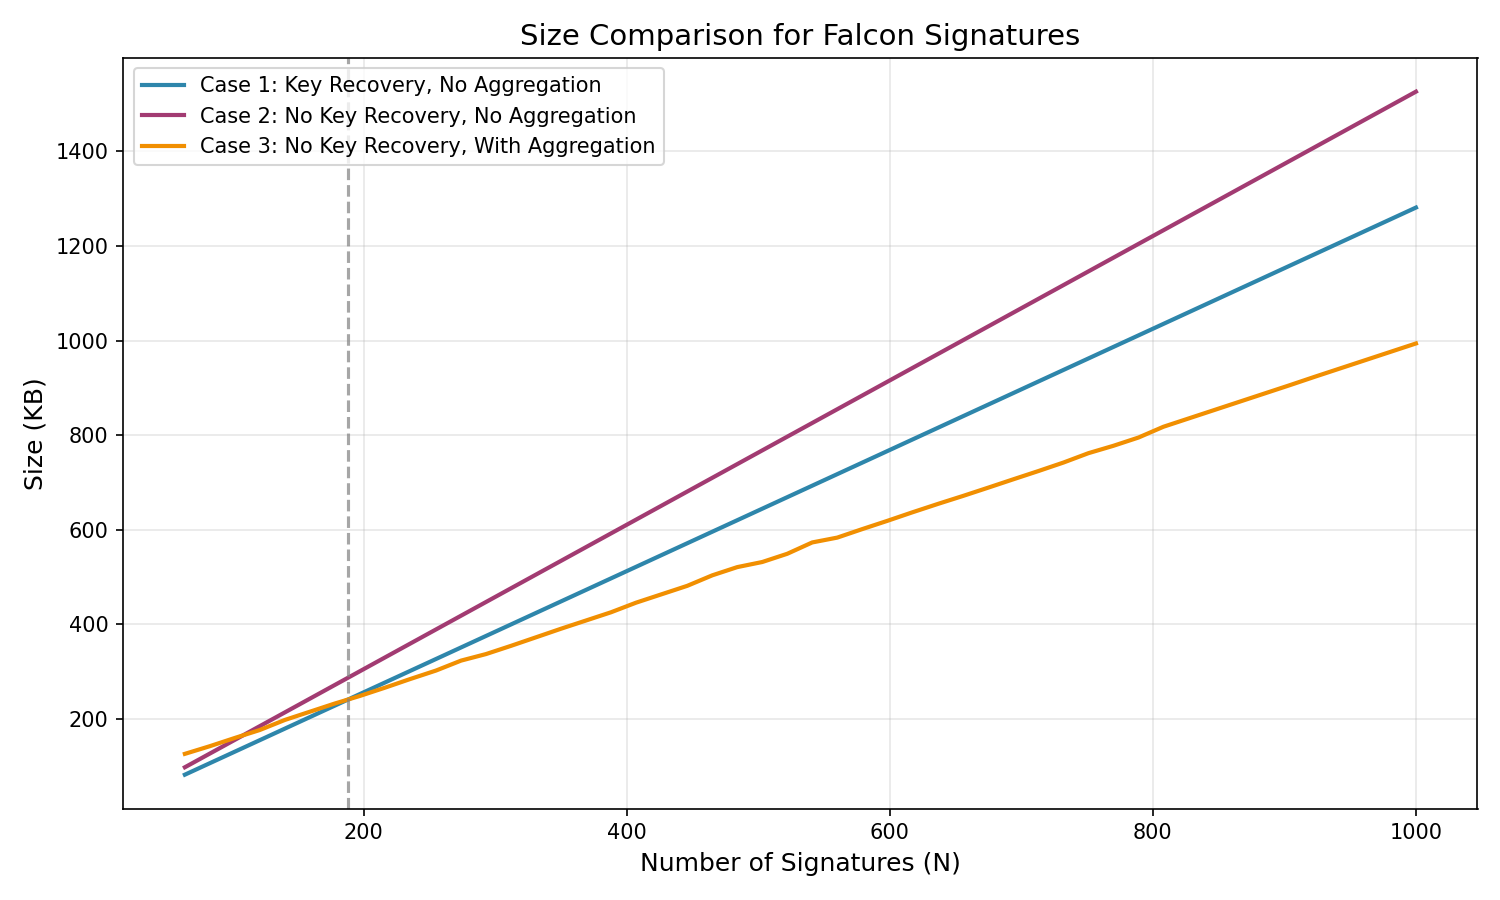
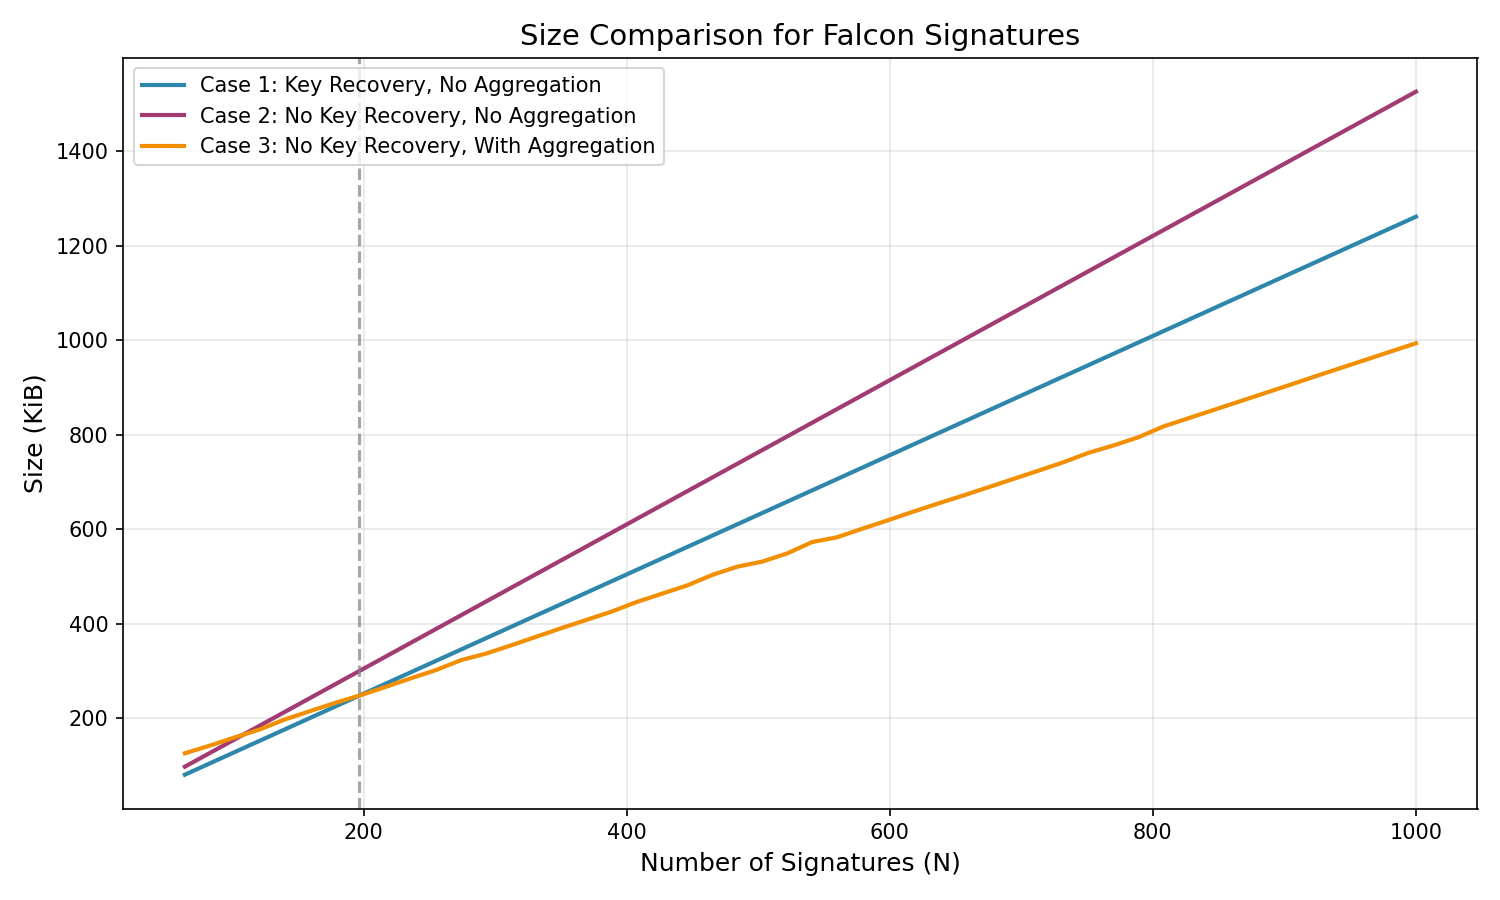
remove address from case 1

diff --git a/compare.py b/compare.py
@@ -17,7 +17,7 @@ r = 40         # nonce size
 
 # Key / address sizes
 p = 897        # public key size
-h = 160/8      # address size (hash of public key)
+h = 160/8      # address size (hash of public key) - not stored in Case 1, recovered from signature
 
 # Number of transactions
 parser = argparse.ArgumentParser(description="Storage cost estimation")
@@ -46,17 +46,14 @@ def aggregated_signature_size(N):
     proof_size_bits = proof_size_estimate.search(N, 15, proof_size_estimate.FALCON_64_128(), proof_size_estimate.CHAL_2_SPLIT_64_128(),8, False)
     return proof_size_bits / 8
 
-
-
-
-
-
 # =========================
 # Size Calculations
 # =========================
 
 # Case 1: With Key Recovery, No Aggregation
-case1_total = N * (h + s_tilde + r)
+# The sender address is not stored: it is recovered from the signature during verification,
+# analogously to how Ethereum currently recovers the sender from an ECDSA signature.
+case1_total = N * (s_tilde + r)
 
 # Case 2: Without Key Recovery, No Aggregation
 case2_total = N * (p + s + r)
@@ -65,7 +62,6 @@ case2_total = N * (p + s + r)
 # Note: a_N already counts the salts
 a_N = aggregated_signature_size(N)
 case3_total = N * p + a_N + N * r
-
 
 
 # =========================
@@ -117,7 +113,8 @@ if args.plot:
             c3 = n * p + a_n + n * r
 
             # Case 1: With Key Recovery, No Aggregation
-            c1 = n * (h + s_tilde + r)
+            # Address not stored — recovered from signature during verification
+            c1 = n * (s_tilde + r)
 
             # Case 2: Without Key Recovery, No Aggregation
             c2 = n * (p + s + r)
